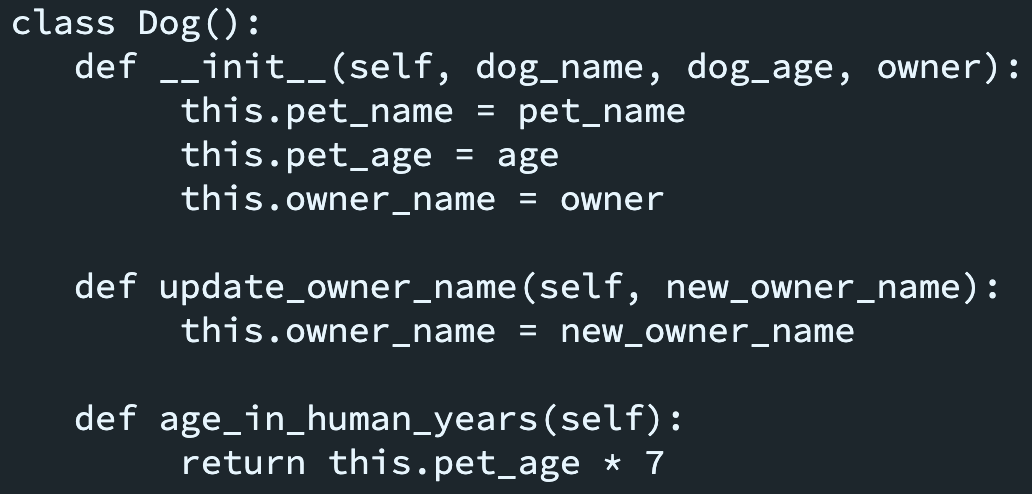
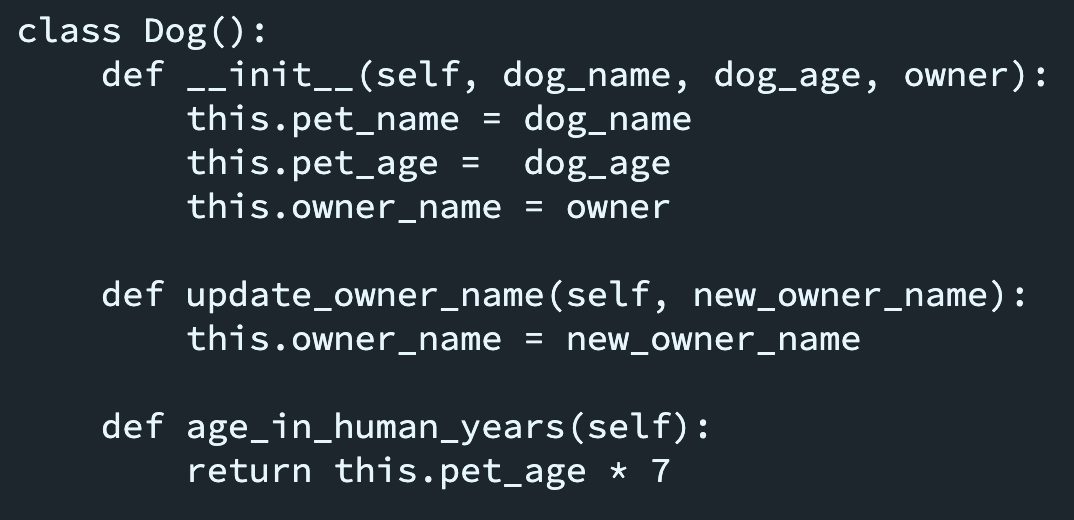
add new images

diff --git a/script.js b/script.js
@@ -31,16 +31,14 @@ var textarea = document.getElementById(textAreaID);
 var selectionMenuPresent = false; 
 // current highlighted Option, this will change based on arrow key presses
 var currentOptionIdNum = 1; 
-var clickMode = true; // Options are selected by click if true
+var clickMode = false; // Options are selected by click if true
 var timestart = 0;
 var timeDiff = 0;
 
 // Experiment Variables
 var keyWords = ["length_of_the_rectangle", "width_of_the_rectangle", "width", "length", 
                 "the_total_area_inside_of_the_rectangle",
-                "personal_name", "new_personal_name", "pet_age", "pet_species","owner_name",
-                "new_owner_name",
-                "new_age"];
+                "pet_name", "dog_name", "dog_age", "owner_name", "new_owner_name", "pet_age"];
 var numMatching = 2;
 var endLines = ["return this.pet_age * 7", "return the_total_area_inside_of_the_rectangle"]
 
